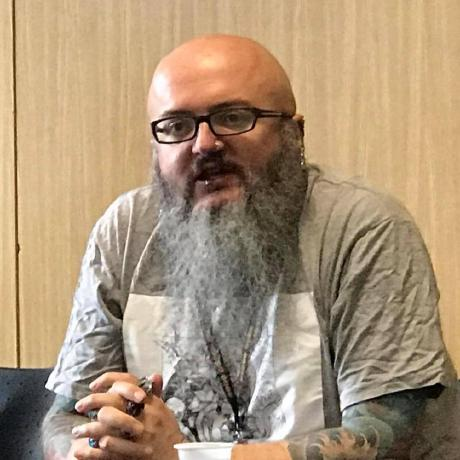
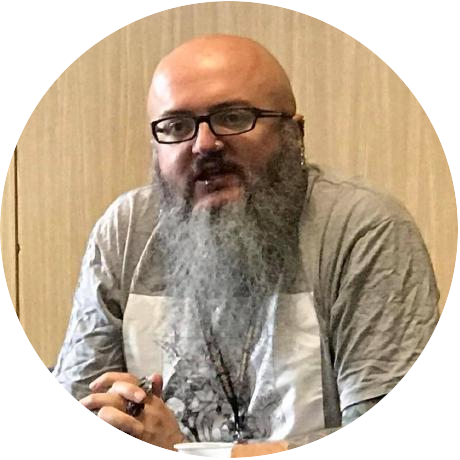
Fix 2019 speakers images

Changed region(s): [[0.487, 0.0, 1.0, 1.0], [0.0, 0.0, 0.487, 0.4565], [0.0, 0.5478, 0.4565, 1.0]]

diff --git a/pages/pastconferences/pastspeakers/pastspeakergrid.js b/pages/pastconferences/pastspeakers/pastspeakergrid.js
@@ -142,7 +142,7 @@ export default function Speaker2021Component() {
       <section className="speaker-grid">
         <SpeakerGridItemComponent
           speakername="Dylan Beattie"
-          pic="/static/speakers/2019/Dylan_Beattie.jpg"
+          pic="/static/speakers/2019/Dylan_Beattie.png"
           link="../pastspeakers/2019/dylan-beattie"
           talkbrief="The Art of Code"
         />
@@ -216,7 +216,7 @@ export default function Speaker2021Component() {
         />
         <SpeakerGridItemComponent
           speakername="Joel Hammond Turner"
-          pic="/static/speakers/2019/Joel_Hammond-Turner.jpg"
+          pic="/static/speakers/2019/Joel_Hammond-Turner.png"
           link="../pastspeakers/2019/joel-hammond-turner"
           talkbrief="You're the Tech Lead - *you* fix it!"
         />

diff --git a/pages/2021/speakers/speakergriditem.js b/pages/2021/speakers/speakergriditem.js
@@ -15,7 +15,10 @@ export default function SpeakerGridItemComponent(props) {
           <Image
             className="speaker-image"
             src={props.pic}
-            alt="Picture of Connell"
+            alt="Picture of"
+            height={250}
+            width={250}
+            layout="responsive"
           />
           <div
             className={`hover-pop ${

diff --git a/pages/pastconferences/pastspeakers/2019/anthony-dang.js b/pages/pastconferences/pastspeakers/2019/anthony-dang.js
@@ -32,8 +32,8 @@ export default function AnthonyDang() {
             src="/static/speakers/2019/Anthony_Dang.png"
             alt="Picture of Anthony Dang"
             className="speakerpic"
-            height="100"
-            width="100"
+            height={250}
+            width={250}
             layout="responsive"
           />
         </div>

diff --git a/pages/pastconferences/pastspeakers/2019/joel-hammond-turner.js b/pages/pastconferences/pastspeakers/2019/joel-hammond-turner.js
@@ -32,6 +32,9 @@ export default function JoelHammondTurner() {
             src="/static/speakers/2019/Joel_Hammond-Turner.jpg"
             alt="Picture of Joel Hammond-Turner"
             className="speakerpic"
+            height={250}
+            width={250}
+            layout="responsive"
           />
         </div>
         <div>

diff --git a/pages/pastconferences/pastspeakers/2019/jessica-salisbury.js b/pages/pastconferences/pastspeakers/2019/jessica-salisbury.js
@@ -32,6 +32,9 @@ export default function JessicaSalisbury() {
             src="/static/speakers/2019/Jessica_Salisbury.png"
             alt="Picture of Jessica Salisbury"
             className="speakerpic"
+            height={250}
+            width={250}
+            layout="responsive"
           />
         </div>
         <div>

diff --git a/pages/pastconferences/pastspeakers/2019/samathy-barratt.js b/pages/pastconferences/pastspeakers/2019/samathy-barratt.js
@@ -32,6 +32,9 @@ export default function SamathyBarratt() {
             src="/static/speakers/2019/Samathy_Barratt.png"
             alt="Picture of Samathy Barratt"
             className="speakerpic"
+            height={250}
+            width={250}
+            layout="responsive"
           />
         </div>
         <div>

diff --git a/pages/pastconferences/pastspeakers/2019/galiya-warrier.js b/pages/pastconferences/pastspeakers/2019/galiya-warrier.js
@@ -32,6 +32,9 @@ export default function GaliyaWarrier() {
             src="/static/speakers/2019/Galiya_Warrier.png"
             alt="Picture of Galiya Warrier"
             className="speakerpic"
+            height={250}
+            width={250}
+            layout="responsive"
           />
         </div>
         <div>

diff --git a/pages/pastconferences/pastspeakers/2019/dylan-beattie.js b/pages/pastconferences/pastspeakers/2019/dylan-beattie.js
@@ -32,6 +32,9 @@ export default function DylanBeattie() {
             src="/static/speakers/2019/Dylan_Beattie.png"
             alt="Picture of Dylan Beattie"
             className="speakerpic"
+            height={250}
+            width={250}
+            layout="responsive"
           />
         </div>
         <div>

diff --git a/pages/pastconferences/pastspeakers/2019/mark-towndrow.js b/pages/pastconferences/pastspeakers/2019/mark-towndrow.js
@@ -32,6 +32,9 @@ export default function MarkTowndrow() {
             src="/static/speakers/2019/Mark_Towndrow.png"
             alt="Picture of Mark Towndrow"
             className="speakerpic"
+            height={250}
+            width={250}
+            layout="responsive"
           />
         </div>
         <div>

diff --git a/pages/pastconferences/pastspeakers/2019/simon-painter.js b/pages/pastconferences/pastspeakers/2019/simon-painter.js
@@ -32,6 +32,9 @@ export default function SimonPainter() {
             src="/static/speakers/2019/Simon_Painter.png"
             alt="Picture of Simon Painter"
             className="speakerpic"
+            height={250}
+            width={250}
+            layout="responsive"
           />
         </div>
         <div>

diff --git a/pages/pastconferences/pastspeakers/2019/neil-oconnor.js b/pages/pastconferences/pastspeakers/2019/neil-oconnor.js
@@ -32,6 +32,9 @@ export default function NeilOConnor() {
             src="/static/speakers/2019/Neil_OConnor.png"
             alt="Picture of Neil O'Connor"
             className="speakerpic"
+            height={250}
+            width={250}
+            layout="responsive"
           />
         </div>
         <div>

diff --git a/pages/pastconferences/pastspeakers/2019/cara-holland.js b/pages/pastconferences/pastspeakers/2019/cara-holland.js
@@ -32,6 +32,9 @@ export default function CaraHolland() {
             src="/static/speakers/2019/Cara_Holland.png"
             alt="Picture of Cara Holland"
             className="speakerpic"
+            height={250}
+            width={250}
+            layout="responsive"
           />
         </div>
         <div>
